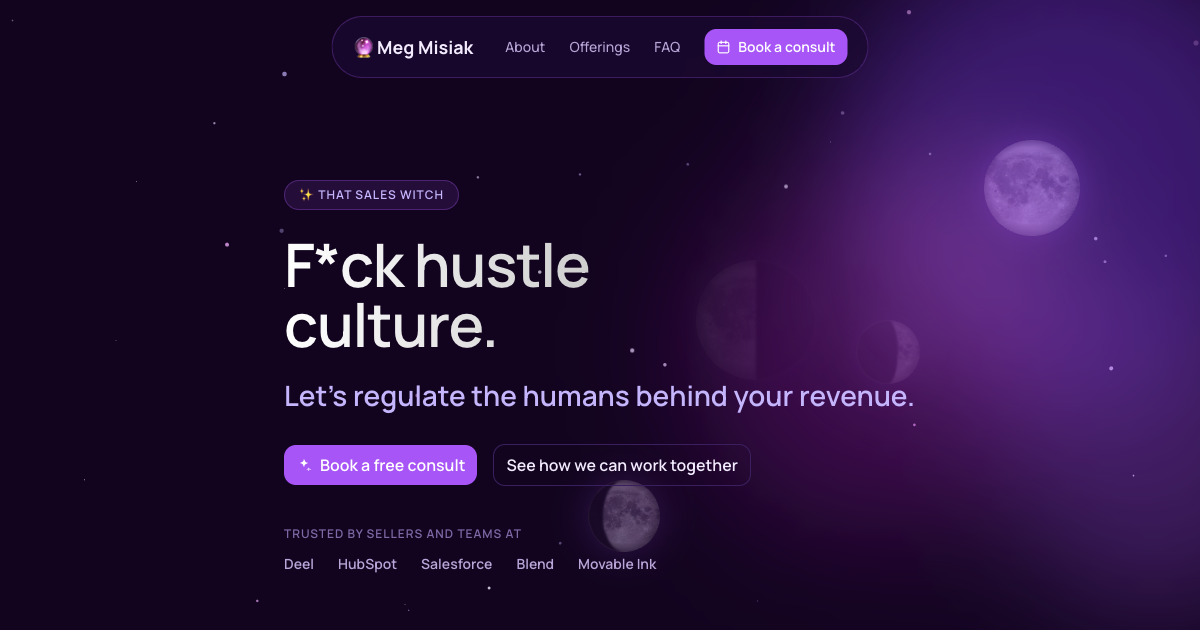
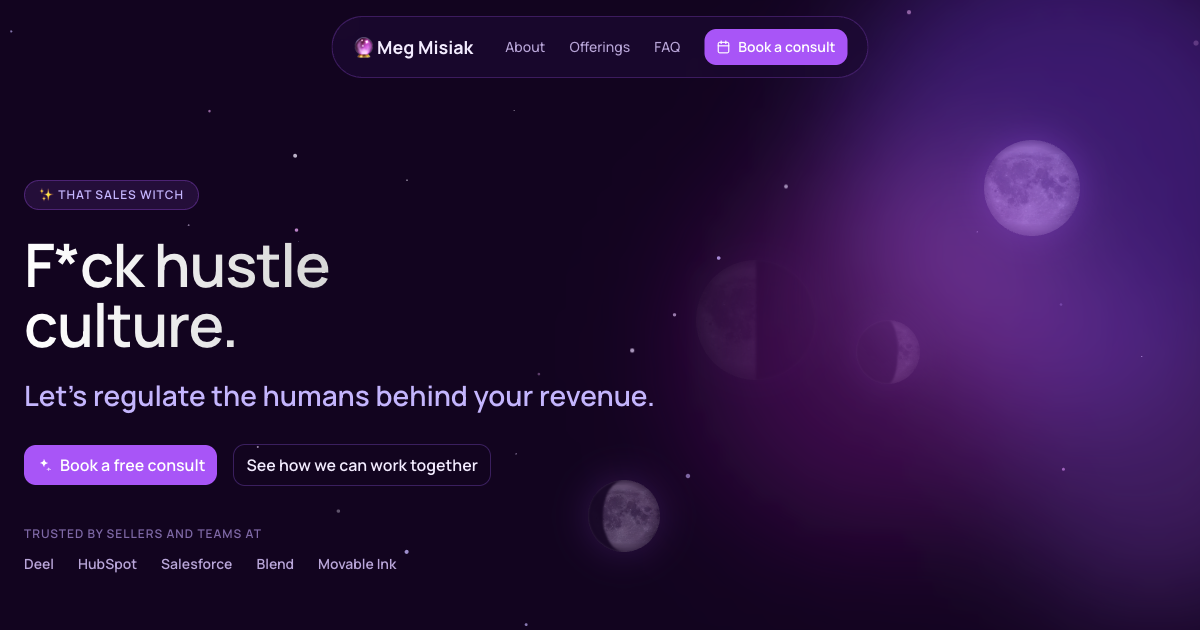
Diagram: widen frame to fluid 1360px, anchor hero left (was centered 680px column), more room for FAQ/testimonial

diff --git a/index.html b/index.html
@@ -28,7 +28,7 @@
     --blush:#f0abfc;
     --radius:16px;
     --curve:cubic-bezier(0.22,1,0.36,1);
-    --maxw:1120px;
+    --maxw:min(1360px, calc(100vw - 96px));
   }
   *{margin:0;padding:0;box-sizing:border-box}
   html{scroll-behavior:smooth}
@@ -107,7 +107,7 @@
     position:absolute;inset:0;overflow:hidden;pointer-events:none;
   }
   .aura svg{position:absolute;right:-160px;top:-80px;width:820px;height:820px;opacity:.85}
-  .hero-inner{position:relative;max-width:680px}
+  .hero-inner{position:relative;max-width:820px;margin:0}
   .eyebrow{
     display:inline-flex;align-items:center;gap:8px;
     font-size:12px;line-height:16px;font-weight:600;letter-spacing:.08em;text-transform:uppercase;
@@ -193,7 +193,7 @@
   /* testimonial */
   blockquote{
     background:var(--card);border:1px solid var(--card-border);border-radius:var(--radius);
-    padding:40px;max-width:760px;margin:48px auto 0;
+    padding:40px;max-width:880px;margin:48px auto 0;
   }
   blockquote p{font-size:24px;line-height:32px;font-weight:500;text-wrap:pretty;margin-bottom:24px}
   blockquote footer{display:flex;align-items:center;gap:12px}
@@ -206,7 +206,7 @@
   blockquote cite b{color:var(--text);font-weight:600;display:block}
 
   /* faq */
-  .faq{max-width:760px;margin:48px auto 0}
+  .faq{max-width:860px;margin:48px auto 0}
   details{
     background:var(--card);border:1px solid var(--card-border);border-radius:12px;
     margin-bottom:12px;overflow:hidden;
